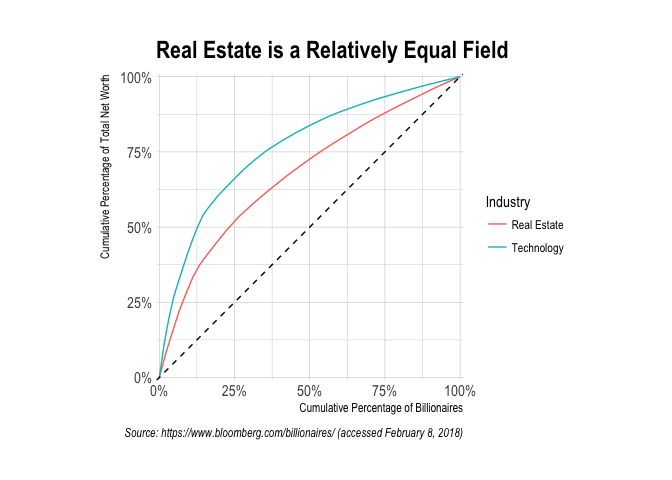
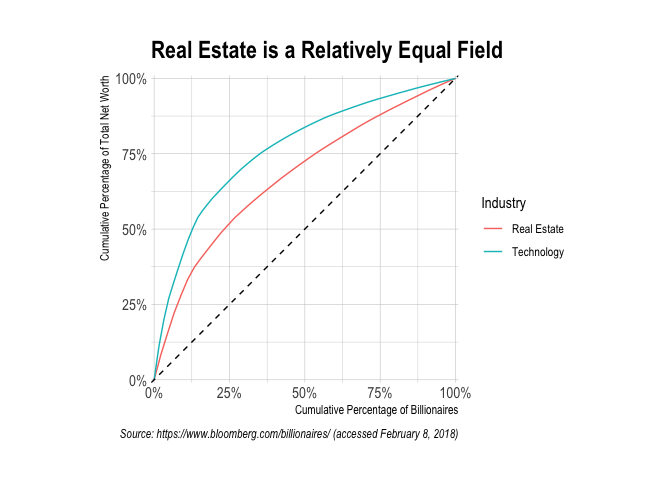
Add two examples suggested by @seasmith

diff --git a/README.md b/README.md
@@ -1,40 +1,42 @@
 
 <!-- README.md is generated from README.Rmd. Please edit that file -->
-[![Travis-CI Build Status](https://travis-ci.org/jjchern/gglorenz.svg?branch=master)](https://travis-ci.org/jjchern/gglorenz) [![AppVeyor Build Status](https://ci.appveyor.com/api/projects/status/github/jjchern/gglorenz?branch=master&svg=true)](https://ci.appveyor.com/project/jjchern/gglorenz)
 
-About `gglorenz`
-================
+[![Travis-CI Build
+Status](https://travis-ci.org/jjchern/gglorenz.svg?branch=master)](https://travis-ci.org/jjchern/gglorenz)
+[![AppVeyor Build
+Status](https://ci.appveyor.com/api/projects/status/github/jjchern/gglorenz?branch=master&svg=true)](https://ci.appveyor.com/project/jjchern/gglorenz)
 
-The goal of `gglorenz` is to plot Lorenz Curves with the blessing of `ggplot2`.
+# About `gglorenz`
 
-Installation
-============
+The goal of `gglorenz` is to plot Lorenz Curves with the blessing of
+`ggplot2`.
+
+# Installation
 
 ``` r
 # Install the CRAN version
 install.packages("gglorenz")
 
 # Install the development version from GitHub:
-# install.packages("devtools")
-devtools::install_github("jjchern/gglorenz")
-
-# To uninstall the package, use:
-# remove.packages("gglorenz")
+# install.packages("remotes")
+remotes::install_github("jjchern/gglorenz")
 ```
 
-Example
-=======
+# Example
 
-Suppose you have a vector with each element representing the amount the stuff a person produced, and you are interested in knowing how much stuff are produced by the top x% of the people, then the `gglorenz::stat_lorenz(desc = TRUE)` would make a graph for you.
+Suppose you have a vector with each element representing the amount the
+stuff a person produced, and you are interested in knowing how much
+stuff are produced by the top x% of the people, then the
+`gglorenz::stat_lorenz(desc = TRUE)` would make a graph for you.
 
 ``` r
 library(tidyverse)
-#> ── Attaching packages ───────────────────────────────────────────────── tidyverse 1.2.1 ──
-#> ✔ ggplot2 2.2.1          ✔ purrr   0.2.4     
-#> ✔ tibble  1.4.2          ✔ dplyr   0.7.4     
-#> ✔ tidyr   0.7.2          ✔ stringr 1.2.0     
-#> ✔ readr   1.1.1.9000     ✔ forcats 0.2.0
-#> ── Conflicts ──────────────────────────────────────────────────── tidyverse_conflicts() ──
+#> ── Attaching packages ──────────────────────────────────────────────────────────── tidyverse 1.2.1 ──
+#> ✔ ggplot2 3.2.0     ✔ purrr   0.3.2
+#> ✔ tibble  2.1.3     ✔ dplyr   0.8.3
+#> ✔ tidyr   0.8.3     ✔ stringr 1.4.0
+#> ✔ readr   1.3.1     ✔ forcats 0.4.0
+#> ── Conflicts ─────────────────────────────────────────────────────────────── tidyverse_conflicts() ──
 #> ✖ dplyr::filter() masks stats::filter()
 #> ✖ dplyr::lag()    masks stats::lag()
 library(gglorenz)
@@ -48,12 +50,12 @@ billionaires
 #>  3 3     Warren Buffett  $86.1B          United States Diversified  86.1
 #>  4 4     Mark Zuckerberg $74.3B          United States Technology   74.3
 #>  5 5     Amancio Ortega  $71.7B          Spain         Retail       71.7
-#>  6 6     Bernard Arnault $65.0B          France        Consumer     65.0
+#>  6 6     Bernard Arnault $65.0B          France        Consumer     65  
 #>  7 7     Carlos Slim     $64.7B          Mexico        Diversified  64.7
 #>  8 8     Larry Ellison   $54.7B          United States Technology   54.7
 #>  9 9     Larry Page      $52.6B          United States Technology   52.6
 #> 10 10    Sergey Brin     $51.2B          United States Technology   51.2
-#> # ... with 490 more rows
+#> # … with 490 more rows
 
 billionaires %>%
     ggplot(aes(TNW)) +
@@ -92,7 +94,52 @@ billionaires %>%
 
 <img src="man/figures/README-unnamed-chunk-1-2.png" width="100%" />
 
-Acknowledgement
-===============
+You can also use other geoms such as `area` or `polygon` and arranging
+population in ascending order:
 
-The package came to exist solely because Bob Rudis was [generous enough](https://github.com/hrbrmstr/ggalt/issues/46) to write a chapter that [demystifies `ggplot2`.](https://rud.is/books/creating-ggplot2-extensions/demystifying-ggplot2.html)
+``` r
+billionaires %>%
+    filter(Industry %in% c("Technology", "Real Estate")) %>% 
+    add_row(Industry = "Perfect Equality", TNW = 1) %>% 
+    ggplot(aes(x = TNW, fill = Industry)) +
+    stat_lorenz(geom = "area", alpha = 0.65) +
+    coord_fixed() +
+    hrbrthemes::scale_x_percent() +
+    hrbrthemes::scale_y_percent() +
+    hrbrthemes::theme_ipsum() +
+    theme(legend.title = element_blank()) +
+    labs(x = "Cumulative Percentage of Billionaires",
+         y = "Cumulative Percentage of Total Net Worth",
+         title = "Real Estate is a Relatively Equal Field",
+         caption = "Source: https://www.bloomberg.com/billionaires/ (accessed February 8, 2018)")
+```
+
+<img src="man/figures/README-unnamed-chunk-2-1.png" width="100%" />
+
+``` r
+
+billionaires %>%
+    filter(Industry %in% c("Technology", "Real Estate")) %>% 
+    mutate(Industry = forcats::as_factor(Industry)) %>% 
+    ggplot(aes(x = TNW, fill = Industry)) +
+    stat_lorenz(geom = "polygon", alpha = 0.65) +
+    geom_abline(linetype = "dashed") +
+    coord_fixed() +
+    hrbrthemes::scale_x_percent() +
+    hrbrthemes::scale_y_percent() +
+    hrbrthemes::theme_ipsum() +
+    theme(legend.title = element_blank()) +
+    labs(x = "Cumulative Percentage of Billionaires",
+         y = "Cumulative Percentage of Total Net Worth",
+         title = "Real Estate is a Relatively Equal Field",
+         caption = "Source: https://www.bloomberg.com/billionaires/ (accessed February 8, 2018)")
+```
+
+<img src="man/figures/README-unnamed-chunk-2-2.png" width="100%" />
+
+# Acknowledgement
+
+The package came to exist solely because Bob Rudis was [generous
+enough](https://github.com/hrbrmstr/ggalt/issues/46) to write a chapter
+that [demystifies
+`ggplot2`.](https://rud.is/books/creating-ggplot2-extensions/demystifying-ggplot2.html)
